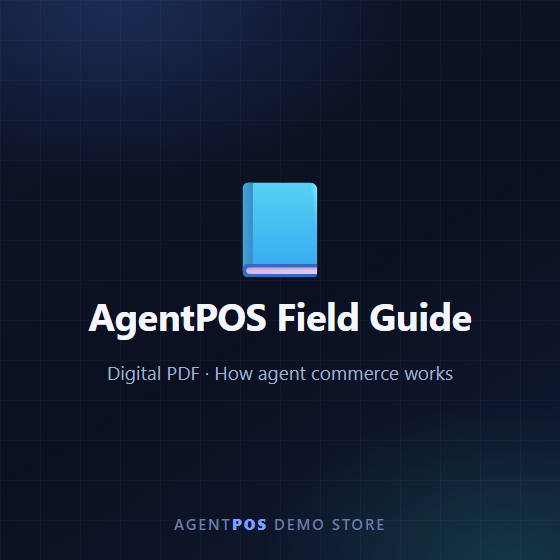
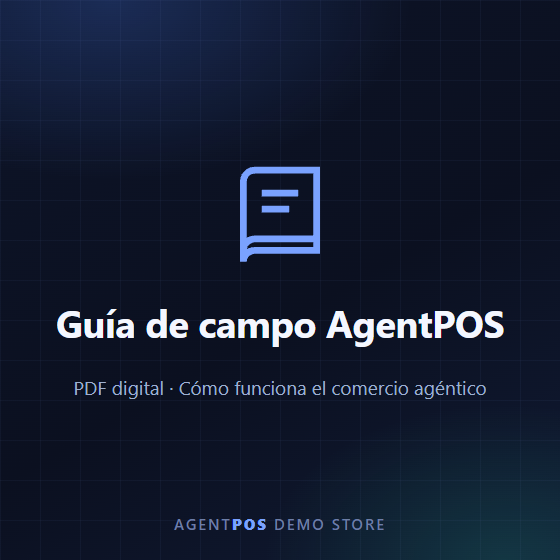
feat(demo-store): spanish-first storefront, svg product art, stale-item prune on reseed
Claude-Session: https://claude.ai/code/session_01SdPZekwrLvwckJaNGS587u

Changed region(s): [[0.0911, 0.2732, 0.9107, 0.7286]]

diff --git a/apps/demo-store/seed/images-src/product-image.html b/apps/demo-store/seed/images-src/product-image.html
@@ -1,6 +1,7 @@
 <!doctype html>
 <!-- Template for the demo store product images. Rendered to PNG by screenshotting #card
-     at 560x560. Query params: title, sub, icon. -->
+     at 560x560. Query params: title, sub, icon (guide | stickers | support). No emojis:
+     inline SVG line icons only, per brand direction. -->
 <html>
 <head>
 <meta charset="utf-8">
@@ -9,7 +10,7 @@
   #card {
     width: 560px; height: 560px; box-sizing: border-box;
     display: flex; flex-direction: column; justify-content: center; align-items: center;
-    gap: 18px; position: relative; overflow: hidden;
+    gap: 26px; position: relative; overflow: hidden;
     background:
       radial-gradient(ellipse 500px 300px at 20% 0%, rgba(77, 132, 255, 0.22), transparent 60%),
       radial-gradient(ellipse 400px 260px at 90% 100%, rgba(38, 208, 160, 0.16), transparent 60%),
@@ -23,14 +24,15 @@
       linear-gradient(90deg, rgba(120, 150, 220, 0.06) 1px, transparent 1px);
     background-size: 40px 40px;
   }
-  #icon { font-size: 96px; line-height: 1; z-index: 1; }
+  #icon { z-index: 1; width: 110px; height: 110px; }
+  #icon svg { width: 100%; height: 100%; stroke: #7aa2ff; fill: none; stroke-width: 1.5; }
   #title {
     z-index: 1; color: #f4f7ff; font-size: 38px; font-weight: 700;
     letter-spacing: -0.5px; text-align: center; max-width: 480px;
   }
-  #sub { z-index: 1; color: #9fb0d0; font-size: 19px; text-align: center; }
+  #sub { z-index: 1; color: #9fb0d0; font-size: 19px; text-align: center; max-width: 460px; }
   #brand {
-    position: absolute; bottom: 26px; z-index: 1; display: flex; align-items: center; gap: 12px;
+    position: absolute; bottom: 26px; z-index: 1;
     color: #6d7ea6; font-size: 15px; font-weight: 600; letter-spacing: 2px;
   }
   #brand b { color: #7aa2ff; }
@@ -45,8 +47,13 @@
     <div id="brand"><span>AGENT<b>POS</b> DEMO STORE</span></div>
   </div>
   <script>
+    const ICONS = {
+      guide: '<svg viewBox="0 0 24 24"><path d="M4 4.5A2.5 2.5 0 0 1 6.5 2H20v17.5H6.5A2.5 2.5 0 0 0 4 22V4.5z"/><path d="M4 19.5A2.5 2.5 0 0 1 6.5 17H20"/><path d="M8 7h8M8 10.5h6"/></svg>',
+      stickers: '<svg viewBox="0 0 24 24"><rect x="3" y="3" width="10" height="10" rx="2"/><rect x="11" y="11" width="10" height="10" rx="5"/><path d="M6.5 8l1.8 1.8L11.5 6"/></svg>',
+      support: '<svg viewBox="0 0 24 24"><path d="M12 21s-7.5-4.6-9.5-9A5.4 5.4 0 0 1 12 6.7 5.4 5.4 0 0 1 21.5 12c-2 4.4-9.5 9-9.5 9z"/></svg>',
+    };
     const q = new URLSearchParams(location.search);
-    document.getElementById("icon").textContent = q.get("icon") || "*";
+    document.getElementById("icon").innerHTML = ICONS[q.get("icon")] || ICONS.guide;
     document.getElementById("title").textContent = q.get("title") || "";
     document.getElementById("sub").textContent = q.get("sub") || "";
   </script>
